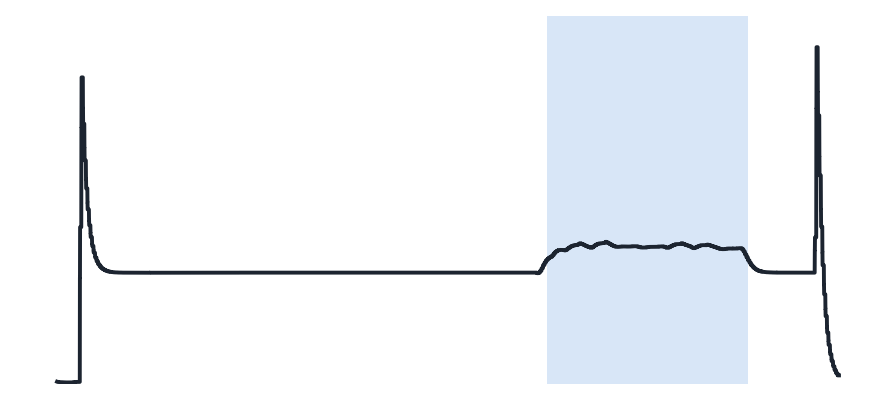
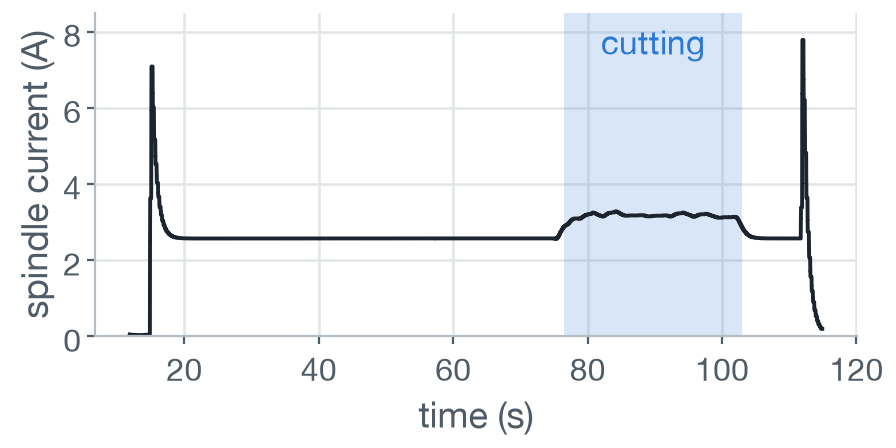
Review 2 deck: ML headings, labelled plots, end-to-end demo
Every slide now has a plain section heading (Problem Statement, Dataset,
Data Pre-processing, ...). Every small plot inside the flowcharts has
labelled axes, and the two photos have captions. The demonstration backup
is now one flowchart of ten steps on unseen cutter 103 at cycle 47, from
the raw recording to the change decision, with a labelled plot per step.
The model and dataset backups end with a short answer to "why".

diff --git a/scripts/28_review2_charts.py b/scripts/28_review2_charts.py
@@ -225,6 +225,7 @@ def replay():
     ax.text(59.3, 92, "broke at 60", ha="right", va="top", fontsize=12.5, color=ORANGE)
     ax.set_xlabel("cycle")
     ax.set_ylabel("cycles left")
+    ax.set_title("cutter 103, never seen in training", loc="left")
     ax.set_ylim(0, 100)
     ax.legend(frameon=False, loc="lower left", fontsize=12.5)
     save(fig, "replay103.png")
@@ -288,46 +289,85 @@ FAMILIES = [  # the TCN's 22 physics inputs, in the four families the deck names
 ]
 
 
-def minis():
-    """Small text-free plots that sit inside the deck's flowchart boxes (one real cycle, cutter 8)."""
-    from matplotlib.colors import LinearSegmentedColormap
+FAMILY_NAMES = ["load", "vibration", "rhythm", "impacts"]
+
+
+def family_bars(ax, values):
+    """22 bars in the four families, with the family names as the x labels (every other one a line lower)."""
+    x, centres, pos = [], [], 0
+    for fam in FAMILIES:
+        start = pos
+        for _ in fam:
+            x.append(pos)
+            pos += 1
+        centres.append((start + pos - 1) / 2)
+        pos += 0.9
+    ax.bar(x, values, width=0.72, color=BLUE)
+    ax.axhline(0, color=INK, lw=1.0)
+    ax.set_xticks(centres, [n if i % 2 == 0 else "\n" + n for i, n in enumerate(FAMILY_NAMES)])
+    ax.tick_params(axis="x", length=0)
+    ax.grid(axis="x", visible=False)
+
+
+def cutting_spans(d):
+    t, cut = d["t_cur"], d["cutting_cur"]
+    edges = np.flatnonzero(np.diff(np.r_[0, cut.astype(int), 0]))
+    return [(s, e) for s, e in zip(t[edges[::2]], t[np.minimum(edges[1::2], len(t) - 1)]) if e - s > 2]
+
+
+def vib_envelope(d, nb=2000):
+    v = d["vib"]["X Driving axle +Z"]
+    tv = np.arange(len(v)) * 4e-5 + d["t_cur"][0]
+    n = len(v) // nb * nb
+    vv, tb = v[:n].reshape(-1, nb), tv[:n].reshape(-1, nb).mean(1)
+    return tb, vv.min(1), vv.max(1)
+
+
+def tooth_spectrum(d):
     from scipy.signal import welch
+    f, p = welch(d["vib"]["X Driving axle +Z"][d["cutting_vib"]], fs=25000, nperseg=8192)
+    keep = f <= 1150
+    return f[keep], np.log10(p[keep])
+
+
+def minis():
+    """Small labelled plots that sit inside the deck's flowchart boxes (one real cycle, cutter 8)."""
+    from matplotlib.colors import LinearSegmentedColormap
 
     card = "#FFFFFF"
 
-    def mini(name, draw, size=(4.48, 2.0)):
+    def mini(name, draw, xlabel, ylabel, size=(4.48, 2.24)):
         fig, ax = plt.subplots(figsize=size)
         fig.patch.set_facecolor(card)
         ax.set_facecolor(card)
         draw(ax)
-        ax.axis("off")
-        fig.subplots_adjust(0.02, 0.04, 0.98, 0.96)
+        ax.set_xlabel(xlabel, fontsize=13, labelpad=2)
+        ax.set_ylabel(ylabel, fontsize=13, labelpad=3)
+        ax.tick_params(labelsize=11.5, length=3, pad=2)
+        fig.tight_layout(pad=0.3)
         fig.savefig(OUT / f"mini_{name}.png", dpi=200, facecolor=card)
         plt.close(fig)
 
     d = load_cycle("P012_F01_C4")
-    v = d["vib"]["X Driving axle +Z"]
-    nb = 2000
-    vv = v[: len(v) // nb * nb].reshape(-1, nb)
-    mini("raw", lambda ax: ax.fill_between(np.arange(len(vv)), vv.min(1), vv.max(1), color=INK, lw=0))
+    tb, lo, hi = vib_envelope(d)
+    mini("raw", lambda ax: ax.fill_between(tb, lo, hi, color=INK, lw=0), "time (s)", "vibration (m/s²)")
 
     def cutting(ax):
-        t, cut = d["t_cur"], d["cutting_cur"]
-        edges = np.flatnonzero(np.diff(np.r_[0, cut.astype(int), 0]))
-        for s, e in zip(t[edges[::2]], t[np.minimum(edges[1::2], len(t) - 1)]):
-            if e - s > 2:
-                ax.axvspan(s, e, color=BLUE, alpha=0.18, lw=0)
-        ax.plot(t, d["spindle"], color=INK, lw=1.4)
+        spans = cutting_spans(d)
+        for s, e in spans:
+            ax.axvspan(s, e, color=BLUE, alpha=0.18, lw=0)
+        ax.plot(d["t_cur"], d["spindle"], color=INK, lw=1.4)
+        ax.text(np.mean(spans[0]), 7.4, "cutting", ha="center", fontsize=12, color=BLUE)
         ax.set_ylim(0, 8.5)
-    mini("cutting", cutting)
+    mini("cutting", cutting, "time (s)", "spindle current (A)")
 
     def spectrum(ax):
-        f, p = welch(v[d["cutting_vib"]], fs=25000, nperseg=8192)
-        keep = f <= 1150
+        f, lp = tooth_spectrum(d)
         for k in range(1, 6):
-            ax.axvline(k * 3200 / 60 * 4, color=BLUE, lw=2.2, alpha=0.55)
-        ax.plot(f[keep], np.log10(p[keep]), color=INK, lw=1.3)
-    mini("spectrum", spectrum)
+            ax.axvline(k * 3200 / 60 * 4, color=BLUE, lw=2.0, alpha=0.55)
+        ax.plot(f, lp, color=INK, lw=1.2)
+        ax.text(3200 / 60 * 4 + 25, lp.max() - 0.2, "tooth hits", fontsize=12, color=BLUE, va="top")
+    mini("spectrum", spectrum, "frequency (Hz)", "log power")
 
     ph = pd.read_parquet(ROOT / "data" / "processed" / "rzeszow_physics.parquet")
     g = ph[ph.tool == 8].sort_values("age").drop_duplicates("age")
@@ -335,29 +375,24 @@ def minis():
 
     def numbers(ax):
         row = g.iloc[-3]
-        x, pos = [], 0
-        for fam in FAMILIES:
-            for c in fam:
-                x.append(pos)
-                pos += 1
-            pos += 0.9
-        vals = [np.log(row[f"{c}__rel"]) if f"{c}__rel" in g else (row[c] - ph[c].mean()) / ph[c].std() / 3
-                for fam in FAMILIES for c in fam]
-        ax.bar(x, vals, width=0.72, color=BLUE)
-        ax.axhline(0, color=INK, lw=1.2)
-    mini("numbers", numbers)
+        family_bars(ax, [(row[c] - ph[c].mean()) / ph[c].std() for fam in FAMILIES for c in fam])
+    mini("numbers", numbers, "", "vs. average\n(std. devs)")
 
     def relative(ax):
         ax.axhline(1, color=INK, lw=1.2, ls=(0, (4, 3)))
-        ax.plot(g.age, g["table_cut_a__rel"], color=BLUE, lw=2.2)
-        ax.plot(g.age[:3], g["table_cut_a__rel"][:3], "o", color=INK, ms=6)
-    mini("relative", relative)
+        ax.plot(g.age + 1, g["table_cut_a__rel"], color=BLUE, lw=2.2)
+        ax.plot(g.age[:3] + 1, g["table_cut_a__rel"][:3], "o", color=INK, ms=6)
+        ax.annotate("first 3 cycles", xy=(3, 1.0), xytext=(8, 1.42), fontsize=12, color=INK, va="center",
+                    arrowprops=dict(arrowstyle="-", color=INK, lw=0.8))
+    mini("relative", relative, "cycle", "table current\n÷ first 3")
 
     def rows(ax):
         m = np.log(g[[f"{c}__rel" for c in rel]].to_numpy().clip(1e-3))
         cmap = LinearSegmentedColormap.from_list("b", [card, BLUE, "#123F75"])
-        ax.imshow(m.clip(0, 1.2), aspect="auto", cmap=cmap, vmin=0, vmax=1.2, interpolation="nearest")
-    mini("rows", rows)
+        ax.imshow(m.clip(0, 1.2), aspect="auto", cmap=cmap, vmin=0, vmax=1.2, interpolation="nearest",
+                  extent=(0.5, len(rel) + 0.5, len(g) + 0.5, 0.5))
+        ax.grid(False)
+    mini("rows", rows, "feature", "cycle")
 
     p = pd.read_parquet(ROOT / "results" / "predictions" / "history_physics.parquet")
     row = p[(p.tool == 103) & (p.run_idx == 30)].iloc[0]
@@ -367,11 +402,142 @@ def minis():
 
     def risk(ax):
         ax.bar(np.arange(1, len(pk) + 1), pk, width=0.8, color=BLUE)
-        ax.axhline(0, color=INK, lw=1.2)
-    mini("risk", risk, size=(6.0, 1.8))
+        ax.axhline(0, color=INK, lw=1.0)
+        ax.set_xlim(0, len(pk) + 1)
+    mini("risk", risk, "cycles from now", "P(break)", size=(5.6, 1.68))
+
+
+def demo():
+    """One unseen cutter (103) at cycle 47, through every step from raw recording to the decision.
+
+    One labelled plot per flowchart card; the card's heading and sentence on the slide say what the step
+    does. Numbers come from the saved results: the predictions of scripts/13 and the india_typical replay
+    of scripts/07 (g = ₹103.2 from the 12 training cutters; keep ₹3,229 vs change ₹3,133 at cycle 47)."""
+    from matplotlib.colors import LinearSegmentedColormap
+
+    card = "#FFFFFF"
+
+    def node(i, draw, xlabel, ylabel, bg=card):
+        fig = plt.figure(figsize=(2.86, 1.70))
+        fig.patch.set_facecolor(bg)
+        ax = fig.add_axes((0.28, 0.31, 0.68, 0.64))
+        ax.set_facecolor(bg)
+        draw(ax)
+        ax.set_xlabel(xlabel, fontsize=12.5, labelpad=2)
+        ax.set_ylabel(ylabel, fontsize=12.5, labelpad=3)
+        ax.tick_params(labelsize=11, length=3, pad=2)
+        fig.savefig(OUT / f"demo_{i:02d}.png", dpi=200, facecolor=bg)
+        plt.close(fig)
+
+    d = load_cycle("P036_F01_C6")  # cutter 103, cycle 47
+    ph = pd.read_parquet(ROOT / "data" / "processed" / "rzeszow_physics.parquet")
+    c103 = ph[ph.tool == 103].sort_values("age").drop_duplicates("age")
+    now = c103[c103.age == 46].iloc[0]
+
+    tb, lo, hi = vib_envelope(d)
+    node(1, lambda ax: ax.fill_between(tb, lo, hi, color=INK, lw=0), "time (s)", "vibration\n(m/s²)")
+
+    def cutting(ax):
+        spans = cutting_spans(d)
+        for s, e in spans:
+            ax.axvspan(s, e, color=BLUE, alpha=0.18, lw=0)
+        ax.plot(d["t_cur"], d["spindle"], color=INK, lw=1.2)
+        ax.text(np.mean(spans[0]), 7.0, "cutting", ha="center", fontsize=11.5, color=BLUE)
+        ax.set_ylim(0, 8.5)
+    node(2, cutting, "time (s)", "spindle\ncurrent (A)")
+
+    def spectrum(ax):
+        f, lp = tooth_spectrum(d)
+        for k in range(1, 6):
+            ax.axvline(k * 3200 / 60 * 4, color=BLUE, lw=1.8, alpha=0.55)
+        ax.plot(f, lp, color=INK, lw=1.1)
+        ax.set_xticks([0, 500, 1000])
+    node(3, spectrum, "frequency (Hz)", "log power")
+
+    node(4, lambda ax: family_bars(ax, [(now[c] - ph[c].mean()) / ph[c].std() for fam in FAMILIES for c in fam]),
+         "", "vs. average\n(std. devs)")
+
+    def relative(ax):
+        col = "Spindle_mX__hiband_rms__rel"
+        ax.axhline(1, color=INK, lw=1.0, ls=(0, (4, 3)))
+        ax.plot(c103.age[:47] + 1, c103[col][:47], color=BLUE, lw=2.0)
+        ax.plot(c103.age[:3] + 1, c103[col][:3], "o", color=INK, ms=4.5)
+        ax.text(2, 1.24, f"now: {now[col]:.2f}×", va="center", fontsize=11.5, color=BLUE)
+    node(5, relative, "cycle", "spindle vib.\n÷ first 3")
+
+    sys.path.insert(0, str(ROOT / "scripts"))
+    import importlib
+    th = importlib.import_module("13_train_history")
+    df, cols = th.load("physics")
+    z = (df[cols] - df[cols].mean()) / df[cols].std().replace(0, 1)
+    seq = z[df.tool == 103].iloc[:47].to_numpy()
+
+    def inputs(ax):
+        cmap = LinearSegmentedColormap.from_list("d", [ORANGE, card, BLUE])
+        ax.imshow(seq.clip(-2.5, 2.5), aspect="auto", cmap=cmap, vmin=-2.5, vmax=2.5, interpolation="nearest",
+                  extent=(0.5, len(cols) + 0.5, 47.5, 0.5))
+        ax.grid(False)
+    node(6, inputs, f"input (1–{len(cols)})", "cycle")
+
+    def cone(ax):
+        n, ys = 16, {1: 1, 2: 2, 4: 3, 8: 4}
+        need = {n - 1}
+        for dil in (8, 4, 2, 1):
+            y = ys[dil]
+            ax.plot(range(n), [y] * n, "o", color=GRID, ms=3)
+            for tau in need:
+                for k in (0, 1, 2):
+                    if tau - k * dil >= 0:
+                        ax.plot([tau, tau - k * dil], [y, y - 1], color=BLUE, lw=0.9)
+                ax.plot(tau, y, "o", color=BLUE, ms=4)
+            need = {tau - k * dil for tau in need for k in (0, 1, 2) if tau - k * dil >= 0}
+        ax.plot(range(n), [0] * n, "s", color=INK2, ms=3.5)
+        ax.set_yticks([0, 1, 2, 3, 4], ["input", "1", "2", "4", "8"])
+        ax.set_xticks([0, n - 1], ["past", "now"])
+        ax.grid(False)
+        ax.set_ylim(-0.5, 4.5)
+    node(7, cone, "cycles", "layer gap")
+
+    p = pd.read_parquet(ROOT / "results" / "predictions" / "history_physics.parquet")
+    g = p[p.tool == 103].sort_values("run_idx")
+    hc = sorted([x for x in p.columns if x.startswith("hazard_")], key=lambda s: int(s.split("_")[1]))
+    h = g[g.run_idx == 46].iloc[0][hc].to_numpy(float)
+    pk = h * np.cumprod(np.r_[1, 1 - h[:-1]])
+
+    def risk(ax):
+        ax.bar(np.arange(1, 21), pk[:20], width=0.8, color=BLUE)
+        ax.axvline(13, color=ORANGE, lw=1.6, ls="--")
+        ax.text(13.6, pk.max() * 0.95, "broke\n13 later", fontsize=11, color=ORANGE, va="top")
+        ax.set_xlim(0, 21)
+    node(8, risk, "cycles from now", "chance of\nbreaking")
+
+    def costs(ax):
+        vals = [("keep", 3229, ORANGE), ("change", 3133, BLUE)]
+        for y, (lab, v, col) in enumerate(vals):
+            ax.plot([3000, v], [y, y], color=col, lw=2.0)
+            ax.plot(v, y, "o", color=col, ms=7)
+            ax.text(v + 12, y, f"₹{v:,}", va="center", fontsize=11.5, color=INK)
+        ax.set_yticks([0, 1], [v[0] for v in vals])
+        ax.set_ylim(1.6, -0.6)
+        ax.set_xlim(3000, 3360)
+        ax.set_xticks([3000, 3100, 3200, 3300])
+        ax.grid(axis="y", visible=False)
+    node(9, costs, "expected cost (₹)", "")
+
+    def replay_mini(ax):
+        x = g.run_idx + 1
+        ax.plot(x, g.rul, color=INK, lw=1.6, label="true")
+        ax.plot(x, g.rul_q50, color=BLUE, lw=1.6, label="predicted")
+        ax.axvline(47, color=BLUE, lw=1.6)
+        ax.axvline(60, color=ORANGE, lw=1.4, ls="--")
+        ax.text(45.5, 98, "change at 47", ha="right", va="top", fontsize=11, color=BLUE)
+        ax.text(45.5, 84, "broke at 60", ha="right", va="top", fontsize=11, color=ORANGE)
+        ax.set_ylim(0, 100)
+        ax.legend(frameon=False, loc="lower left", fontsize=10.5, handlelength=1.2, borderaxespad=0.1)
+    node(10, replay_mini, "cycle", "cycles left", bg="#FBE6DC")
 
 
 if __name__ == "__main__":
-    for f in (lives, one_cycle, features, tcn_diagram, loco_grid, splits, results, replay, decisions, risk_curves, minis):
+    for f in (lives, one_cycle, features, tcn_diagram, loco_grid, splits, results, replay, decisions, risk_curves, minis, demo):
         f()
     print("written to", OUT)

diff --git a/research/review-2-video-script.md b/research/review-2-video-script.md
@@ -13,47 +13,47 @@
 
 > This is ToolLife Policy, our Review 2. Review 1 set out the problem and the data. Today: how we prepared the data, the model we chose, how we tested it, and the working system.
 
-**Slide 2: A breakage costs ₹6,530; a planned change ₹3,133**
+**Slide 2: Problem Statement**
 
 > A milling cutter wears a little on every cut until it snaps; these fourteen did. A breakage costs about twice a planned change. So every cycle, our system reads the sensors, the TCN turns them into a risk curve, and a cost rule decides: keep cutting, or change the cutter now. Everything we promised at Review 1 is built.
 
-**Slide 3: Fourteen cutters, each run until it broke**
+**Slide 3: Dataset**
 
 > The data is from Piecuch and Żabiński, 2025: fourteen cutters on one machine, run until they broke. Nine hundred and sixty-eight cycles, twenty sensors, a hundred and twelve gigabytes. Cutter eleven, in grey, broke on its first cycle, so we leave it out. That makes thirteen lives, our real sample size, since each life gives one breaking point. Over to Bhuwan.
 
 ## Bhuwan: data pre-processing and feature engineering (about 70 seconds)
 
-**Slide 4: From a raw recording to one row per cycle**
+**Slide 4: Data Pre-processing**
 
 > Each cycle is a raw recording, about two minutes long. We keep only the cutting, which the spindle current shows: here, twenty-seven seconds. We take each sensor's spectrum; the blue lines are the tooth hits. From that we compute twenty-two physics numbers, and divide each by the cutter's first three cycles, because what matters is change since new. We never use the future. The result is one row per cycle; darker means more change.
 
-**Slide 5: 22 physics numbers, plus 7 for context**
+**Slide 5: Feature Engineering**
 
 > The twenty-two numbers come in four families: load, meaning how hard the motors work; vibration; rhythms, the beat of the teeth, where a chipped tooth shows; and impacts. On the right, two of them over every cutter's life: both climb towards the end. We checked it is wear, not position in the block. With the settings, the cycle count and a first-ring flag, the model gets twenty-nine inputs per cycle. Amal.
 
 ## Amal: model selection and architecture (about 55 seconds)
 
-**Slide 6: A causal TCN that looks back about 60 cycles**
+**Slide 6: Model Architecture: Causal TCN**
 
 > We tried five kinds of model. LightGBM has no memory of past cycles, so it became our yardstick. A CNN on raw vibration could not learn from thirteen lives. An autoencoder health score did worse than our physics numbers. LSTM, GRU and Transformer were no more accurate. We chose a TCN, a temporal convolutional network. It is causal: it only looks back, never at the future, like a real machine. Four blocks with growing gaps let it see about sixty cycles with a hundred and nine thousand weights. It outputs the chance of breaking on each coming cycle: the risk curve our cost rule needs. Rafiq.
 
 ## Rafiq: training and evaluation (about 85 seconds)
 
-**Slide 7: Every test cutter is one the model never saw**
+**Slide 7: Training and Evaluation: Leave-One-Cutter-Out**
 
 > To test honestly, we hide one whole cutter, train on the other twelve with five random starts, and predict the hidden one. We repeat that thirteen times, so every cutter is tested by a model that never saw it. Why not seventy-thirty? A random split puts the same cutter on both sides: the error drops to about six, but that is a leak. Splitting by whole cutters is honest, but swings from nine to thirty-eight depending on which cutters land in the test.
 
-**Slide 8: Sensors help; the network type barely matters**
+**Slide 8: Results: Remaining Useful Life Prediction**
 
 > Here is every main model on unseen cutters, in cycles of error. A TCN that knows only the cutter's age is off by twenty-eight; with our physics features, twenty-two. That six-cycle gain from sensors is real. Settings alone are hard to beat on ordinary cutters, but on cutter ten, the only one on a long holder, they were off by over a hundred cycles; the TCN, seeing it shake, by twenty-eight. Between models it is a tie: they are closer together than one model re-run. Aaditya.
 
 ## Aaditya: model implementation: the working system and its decisions (about 105 seconds)
 
-**Slide 9: From a raw recording to keep-or-change**
+**Slide 9: Model Implementation**
 
 > This is the system as running code: four scripts in a chain. The first cleans the raw signal and keeps only the cutting. The second computes the physics numbers. The third trains the TCN in PyTorch, thirteen folds with five random starts each; over thirteen hundred networks across the whole comparison. The fourth turns each risk curve into keep or change. On the left is cutter one-oh-three, never seen in training. Black is the truth, blue our prediction. Early on it is too hopeful, but as wear builds it closes in and meets the truth near cycle forty. At forty-seven the rule changes the cutter. It would have broken at sixty.
 
-**Slide 10: Ten breakages down to five**
+**Slide 10: Results: Tool-Change Decisions**
 
 > Now the decision. We replay all thirteen cutters cycle by cycle at Indian shop costs. Run to failure, and all thirteen break. Change every N cycles, the usual practice, and ten still break. Our rule with the TCN: five break, and the cost per good cycle falls from ninety-nine rupees to ninety-three. That six percent is promising, not proven, with thirteen cutters. What does hold up is the sensors: the same rule without them costs a hundred and eleven. Perfect knowledge would cost fifty-nine, and our error is still falling as cutters are added. So the next step is more data. Thank you.
 
@@ -61,15 +61,15 @@
 
 ## Backup slides: only if a reviewer asks
 
-**What the model says about cutter 103** (Aaditya)
+**End-to-End Demonstration: Unseen Cutter 103** (Aaditya)
 
-> These are the risk curves the decision rule actually reads, for cutter 103, which the model never saw. Each bar is the chance the cutter breaks on that cycle from now. After cycle six, there is almost no risk inside the next fifty-four cycles: calm, and correct. After cycle thirty-one, the risk peaks about thirty-five cycles ahead; it really broke twenty-nine later, so it is a few cycles late. After cycle fifty-one, the risk sits in the next one to three cycles; it really broke nine later, so near the end the model is cautious, which is the safe direction. The two commands rebuild every prediction and every decision from the processed data.
+> This is the whole pipeline on one cutter the model never saw in training, cutter one-oh-three, at cycle forty-seven. One: the raw recording, eight vibration and twelve current signals. Two: we keep only the twenty-five seconds of cutting, which the spindle current shows. Three: in the vibration spectrum the teeth hit at two hundred and thirteen hertz: thirty-two hundred rpm, times four teeth, over sixty. Four: each cycle becomes twenty-two numbers: how strong the vibration and current are, how spiky the vibration is, and how much power sits at the tooth-hit frequency. Five: we divide each by this cutter's own first three cycles, so the model sees change since new; the spindle's high-pitched vibration is now twenty-two percent above new. Six: with seven context inputs, the cutting settings, the cycle count and a first-pass flag, cycles one to forty-seven become a table of twenty-nine columns. Seven: the causal TCN reads the last sixty or so cycles and never the future. Eight: it outputs the chance of breaking on each coming cycle; the most likely break is five cycles away. It really broke thirteen later, so the model is on the cautious side. Nine: the cost rule compares keeping the cutter, an expected three thousand two hundred and twenty-nine rupees, with a planned change now, three thousand one hundred and thirty-three. Every good cycle is credited a hundred and three rupees, the long-run cost per cycle learned on the other twelve cutters. Ten: keeping costs more, so it changes the cutter at cycle forty-seven, thirteen cycles before it would have broken.
 
-**Chosen first, then tested against 32 rivals** (Amal or Aaditya)
+**Model Selection** (Amal or Aaditya)
 
-> We fixed the TCN as the main model before running any rival, so it cannot be the luckiest of thirty-three. It was chosen for the job: it is causal, it is small enough for thirteen lives, and it outputs a risk for each coming cycle, which the cost rule needs. It is not the top score, and need not be: re-running one model with new random starts moves it between twenty-one point seven and twenty-four point one, and none of the gaps at the top is statistically certain. The same TCN on the dataset's own hundred and twenty summaries scored nineteen point two; its edge has a ninety-five percent interval of minus one point five to plus seven point three cycles, so it could be luck, but it hints our hand-picked features leave something out. We report it rather than switch. Learning from raw signal, the one-D CNN at thirty-one point seven, failed because thirteen lives are too few.
+> We tested our TCN against thirty-two other models, each tested the same way: hide one cutter, train on the other twelve, predict the hidden one. The table shows the main ones. The best four, the Transformer, LightGBM, the LSTM and our TCN, are within one cycle of each other, closer together than one model re-run with new random starts, which moves between twenty-one point seven and twenty-four point one. So the score alone cannot choose. We fixed the TCN as the main model before running any rival, so it cannot be the luckiest of thirty-three. It was chosen for the job: it is causal, so it never uses the future; it is small enough for thirteen lives; and it outputs a risk for each coming cycle, which the cost rule needs. The same TCN on the dataset's own hundred and twenty summaries scored nineteen point two; its edge has a ninety-five percent interval of minus one point five to plus seven point three cycles, so it could be luck, but it hints our hand-picked features leave something out. We report it rather than switch. Learning from raw signal, the one-D CNN at thirty-one point seven, failed because thirteen lives are too few.
 
-**Why our 13 lives stay the main data** (Yadu or Aaditya)
+**Dataset Selection** (Yadu or Aaditya)
 
 > We did look at other datasets: NASA, Hannover, MSTW, an Indian VMC 650 shop, PHM 2010 and MATWI. Our question is when a cutter breaks. Most of them stop at a wear limit, or when an operator decides, or never; MATWI does run to failure, but its labels are noisy and it has one slow vibration sensor. So only our thirteen lives answer the question directly. That is the real issue: each life gives exactly one breaking point, so more cycles do not help, only more cutters. The other data still teaches how signals change with wear. A model trained only on the other machines estimated life used on our cutters with an error of zero point one eight two, against zero point one seven two for one trained on ours, within the noise. Pretraining our TCN on seventy-three other lives gave twenty-two point zero against our twenty-one point nine: no gain.
 
